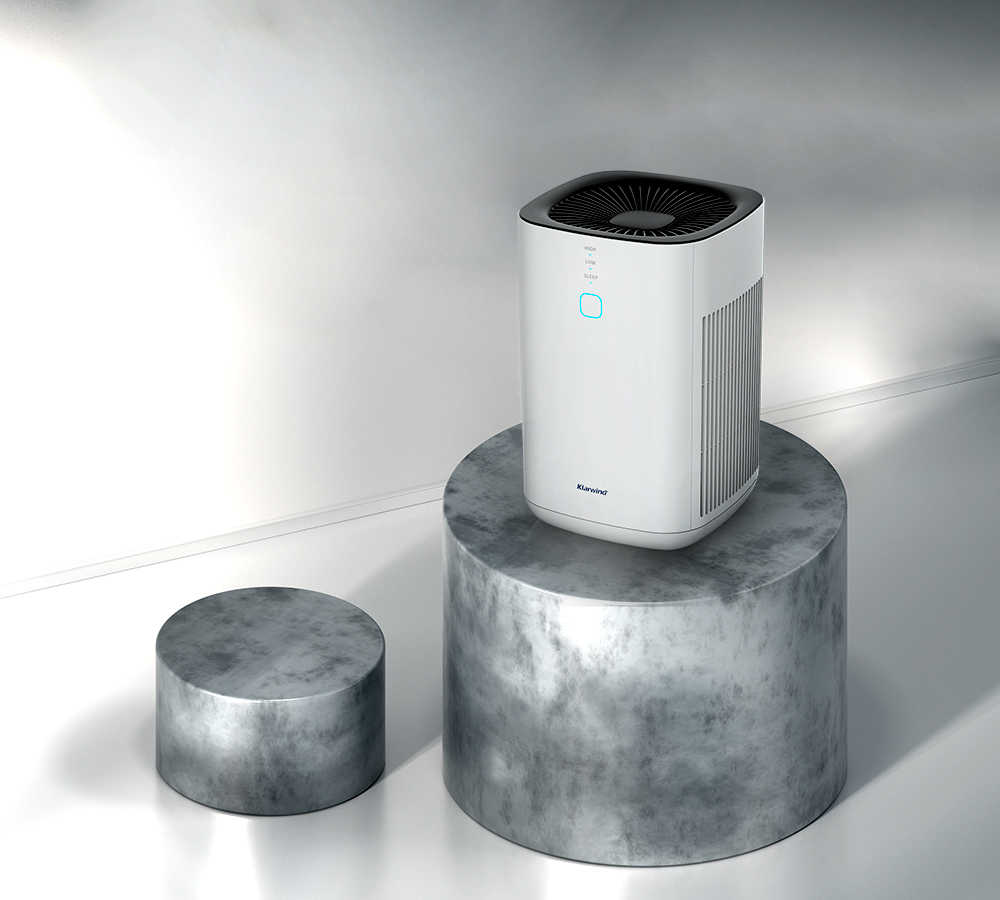
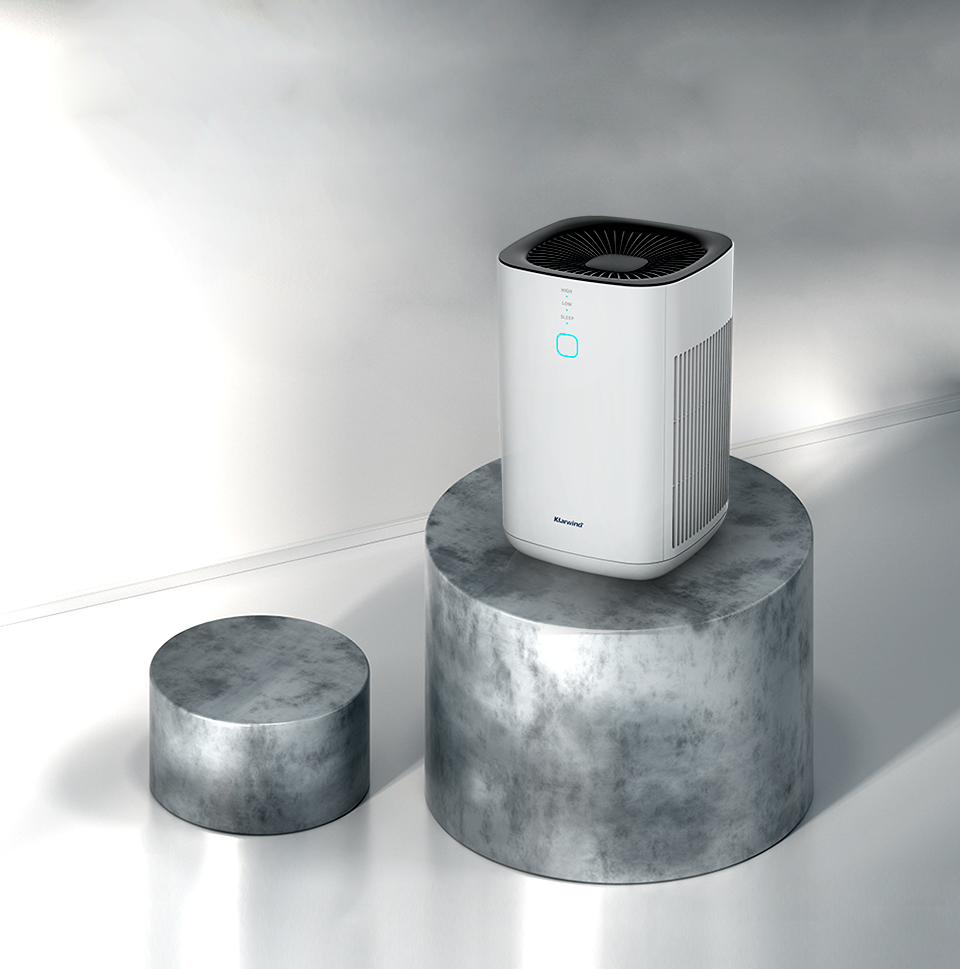
up

diff --git a/klarwind/css/pc.css b/klarwind/css/pc.css
@@ -72,7 +72,7 @@ nav#navTop #topMenu_2 img{width: 40px;}
 
 /* section.page1*/
 .section.page1,.section.page2{
-  position: relative;width: 100%;height: 100%;
+  position: relative;width: 100%;height: 100vh;
   left: 50%;transform: translateX(-50%);
 }
 .section.page1 h1{
@@ -81,8 +81,8 @@ nav#navTop #topMenu_2 img{width: 40px;}
     letter-spacing: -8px;
     left: 0;
     line-height: 150px;
-    bottom: 10%;
-    font-size: 210px;
+    bottom: 7%;
+    font-size: 215px;
     padding-left: 13px;
 
 }
@@ -90,27 +90,22 @@ nav#navTop #topMenu_2 img{width: 40px;}
     padding-left: 10px;}
 
 
-.mainSlide img{display: block;margin: 0 auto;width:100%;_box-shadow: 0 4px 8px 0 rgba(0, 0, 0, 0.4);} /*사이 공백 없애고 사이즈 조정*/
+.mainSlide img{width:100%;height: 100%;} /*사이 공백 없애고 사이즈 조정*/
 .mainSlide{
   height: 100vh;
-  margin: 0 auto;
   overflow: hidden;
-  position: absolute; width: 50%; right: 0;
-  top: 52.5%; transform: translateY(-50%);overflow: auto;letter-spacing: -0.7px;
+  margin-top: 5%;
+  position: absolute; width: 50%; right: 0;bottom: 0;
+  letter-spacing: -0.7px;
 }
 .mainSlide ul{width: 100%;height: 100%;position: relative;}
 .mainSlide li{position: absolute;opacity: 0;}
 .mainSlide li:nth-child(1){_top: 50%; _transform: translateY(-50%);left: 0;opacity: 1;}
 
-.mainTxt1,.mainTxt2,.mainTxt3{
-  position: absolute;text-align: center;font-weight: bold;
-  left: 50%;transform: translateX(-50%);
-  color: #fff;top: 4%;_text-shadow:2px 2px 6px #fff;
-  background-color: #000;
-  background-color: rgba( 255, 255, 255, 0.5 );
-  padding: 2px 10px;
-}
-.section.page1 .sliderWrap li p{font-size: 34px;}
+.mainTxt1,.mainTxt2,.mainTxt3{position: absolute;text-align: center;font-weight: bold;left: 5%;top: 7%;}
+.mainTxt2,.mainTxt3{color:#fff;}
+.mainTxt1{color:#000;}
+.section.page1 .sliderWrap li p{font-size: 30px;}
 .section.page1 .sliderWrap li h3{font-size: 42px;width: 100%;color:#52aff6;}
 
 .cardContainer{position: absolute;top: 33%; transform: translateX(-50%);left: 47%;}

diff --git a/klarwind/index.html b/klarwind/index.html
@@ -221,10 +221,10 @@
             <div class="mainTxt1" class="blind_pc">
               <p>To show How to clean</p>
             </div>
-            <img src="images/main1_2.jpg" alt="">
+            <img src="images/main2_2.jpg" alt="">
           </li>
           <li>
-            <img src="images/main2_2.jpg" alt="">
+            <img src="images/main1_2.jpg" alt="">
             <div class="mainTxt2">
               <p>To see Indoor air quality</p>
             </div>
